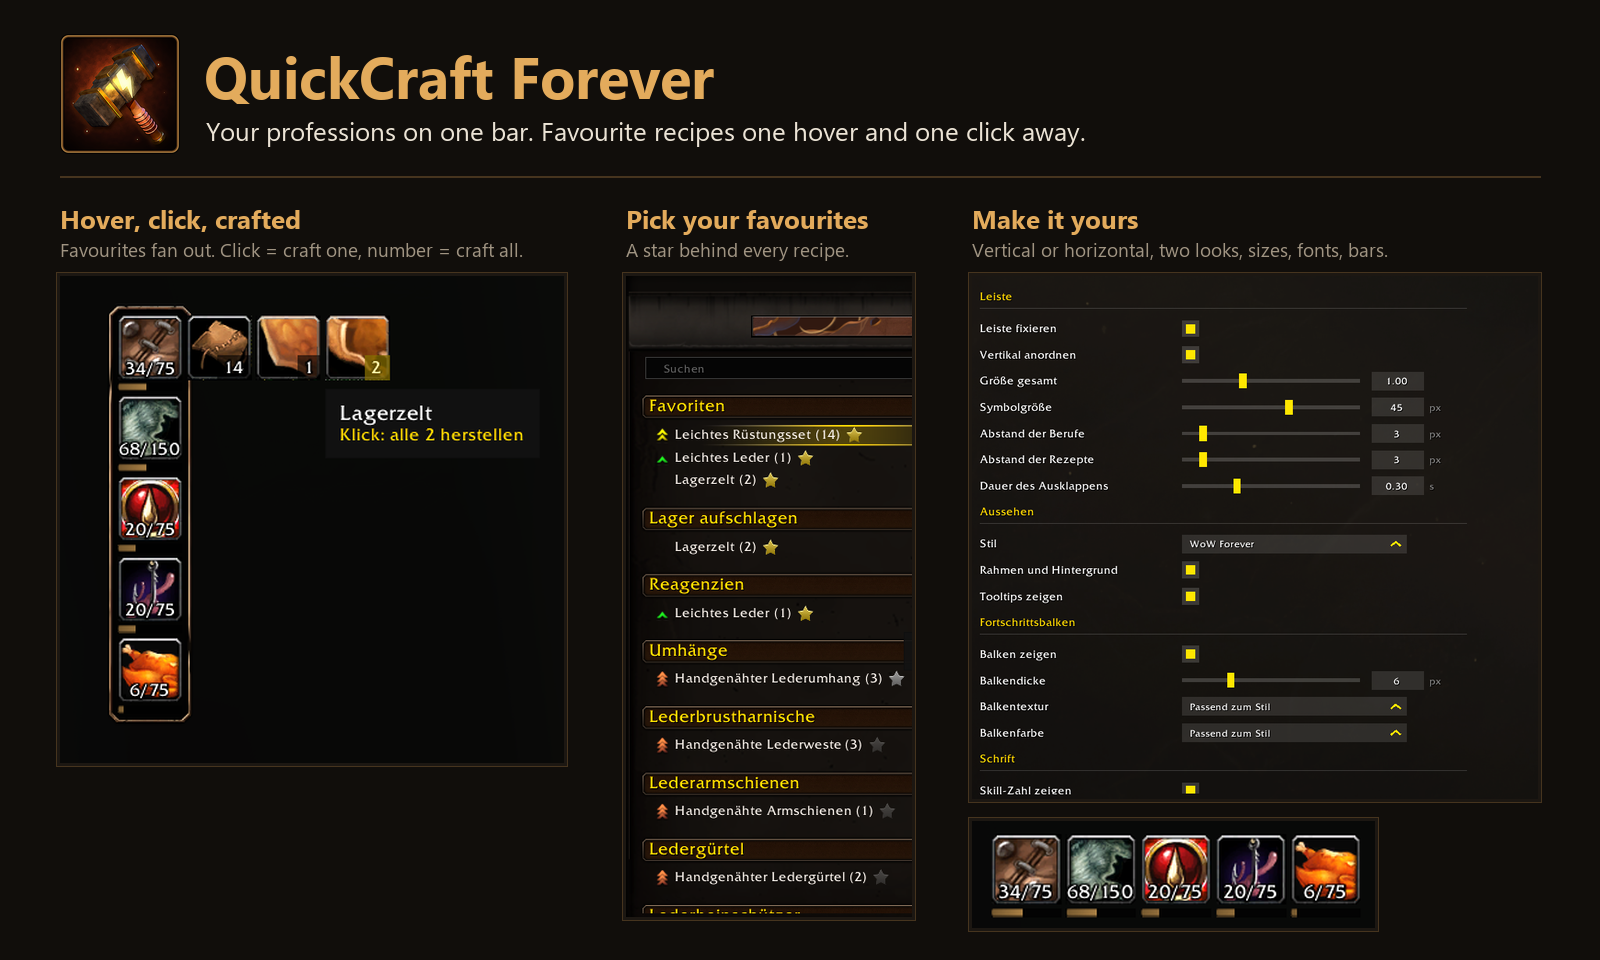
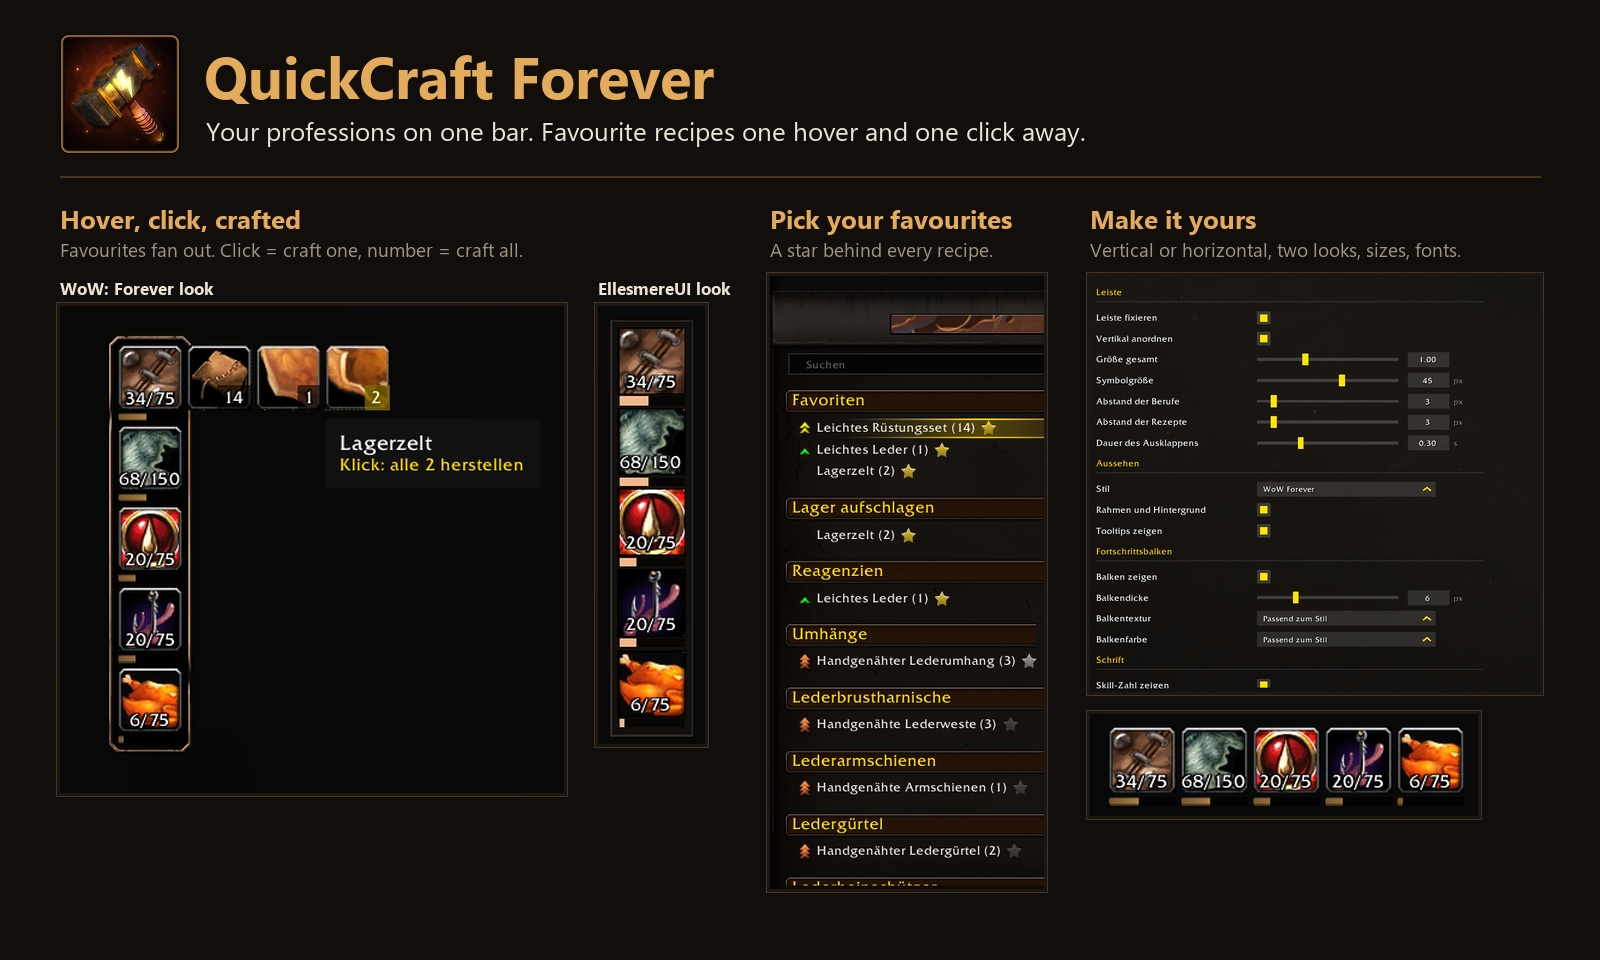
Showcase: show the EllesmereUI look next to the Forever look
Claude-Session: https://claude.ai/code/session_01M8UN9K38cEs8jBNRgTN6FM

Changed region(s): [[0.375, 0.2188, 0.9375, 0.9688], [0.0312, 0.2812, 0.3438, 0.7812], [0.7812, 0.3125, 0.8125, 0.375]]

diff --git a/tools/make_showcase.py b/tools/make_showcase.py
@@ -33,21 +33,29 @@ draw.text((206, 112), "Your professions on one bar. Favourite recipes one hover 
 draw.line((60, 176, W - 60, 176), fill=(70, 52, 30), width=2)
 
 
-def panel(x, y, images, title, text):
+def panel(x, y, rows, title, text):
+    """rows: list of rows, each a list of (image, label) placed side by side."""
     draw.text((x, y), title, font=font(26, True), fill=GOLD)
     draw.text((x, y + 36), text, font=font(19), fill=DIM)
     cy = y + 76
-    for im in images:
-        draw.rectangle((x - 4, cy - 4, x + im.width + 3, cy + im.height + 3), fill=PANEL, outline=(70, 52, 30))
-        canvas.paste(im, (x, cy))
-        cy += im.height + 22
+    for row in rows:
+        cx = x
+        for im, label in row:
+            top = cy
+            if label:
+                draw.text((cx, cy), label, font=font(17, True), fill=TEXT)
+                top = cy + 30
+            draw.rectangle((cx - 4, top - 4, cx + im.width + 3, top + im.height + 3), fill=PANEL, outline=(70, 52, 30))
+            canvas.paste(im, (cx, top))
+            cx += im.width + 34
+        cy += max(im.height for im, _ in row) + (30 if row[0][1] else 0) + 22
 
 
-panel(60, 200, [shot("2.png", 1.2)], "Hover, click, crafted",
-      "Favourites fan out. Click = craft one, number = craft all.")
-panel(626, 200, [shot("3.png", 0.92)], "Pick your favourites", "A star behind every recipe.")
-panel(972, 200, [shot("4.png", 0.78), shot("6.png", 1.3)], "Make it yours",
-      "Vertical or horizontal, two looks, sizes, fonts, bars.")
+panel(60, 200, [[(shot("2.png", 1.2), "WoW: Forever look"), (shot("5.png", 1.2), "EllesmereUI look")]],
+      "Hover, click, crafted", "Favourites fan out. Click = craft one, number = craft all.")
+panel(770, 200, [[(shot("3.png", 0.88), "")]], "Pick your favourites", "A star behind every recipe.")
+panel(1090, 200, [[(shot("4.png", 0.62), "")], [(shot("6.png", 1.25), "")]], "Make it yours",
+      "Vertical or horizontal, two looks, sizes, fonts.")
 
 out = os.path.join(repo, "assets", "showcase.png")
 canvas.save(out)
